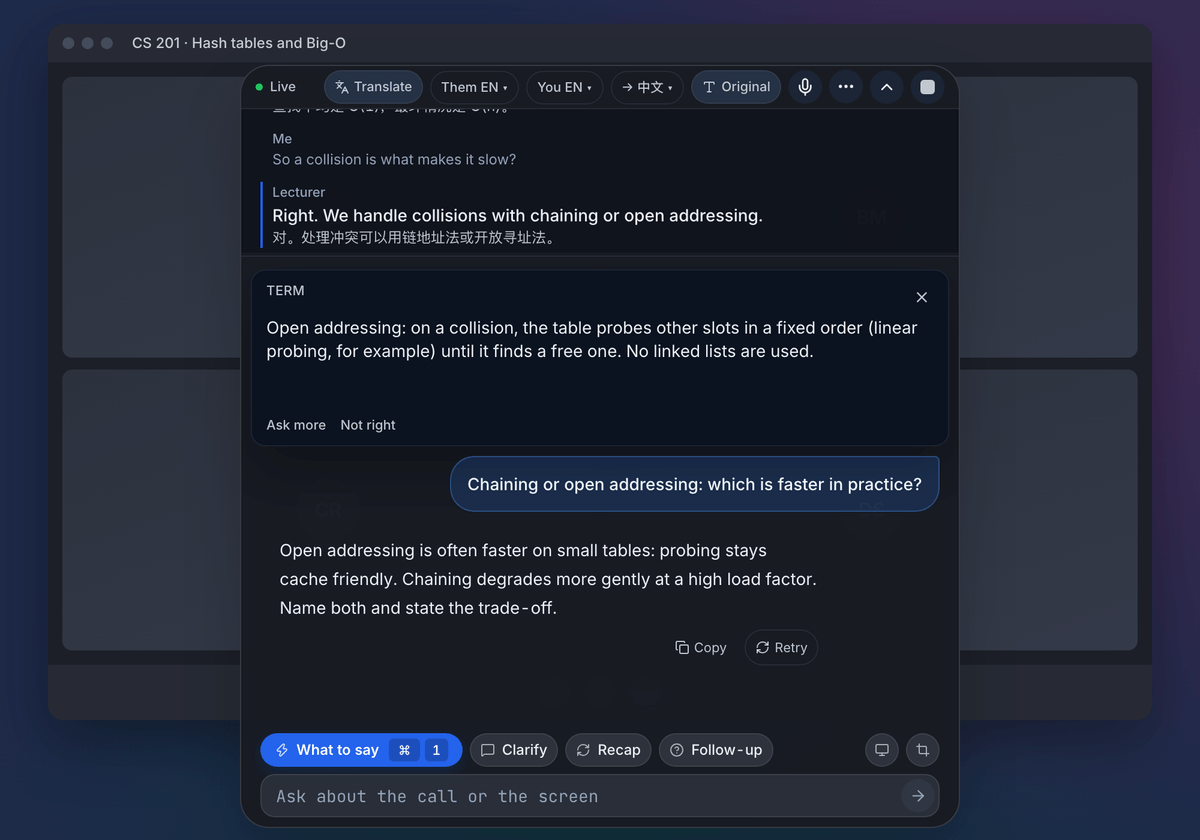
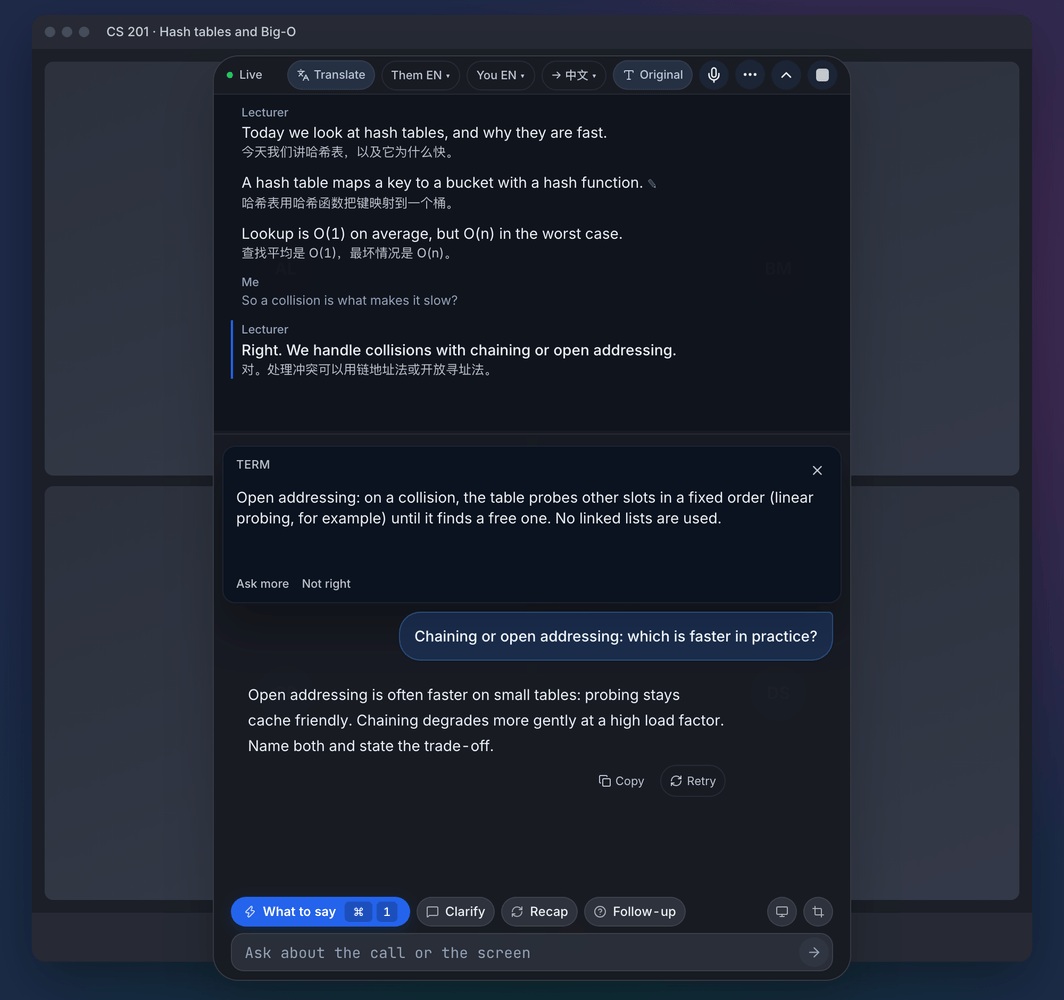
fix(docs): fit the whole scene in each product image

diff --git a/demo/shots/shots.css b/demo/shots/shots.css
@@ -1,6 +1,6 @@
 /* Backdrop for the product shots: a generic video-call window on a blurred desktop. Neutral shapes and
-   initials only; no real app, brand or person. The page is 1000x700; the real overlay sits on top. */
-html, body, #root { margin: 0; width: 1000px; height: 700px; overflow: hidden; }
+   initials only; no real app, brand or person. The page is 1000x940; the real overlay sits on top. */
+html, body, #root { margin: 0; width: 1000px; height: 940px; overflow: hidden; }
 html[data-theme="dark"] { --desk-a: #1e2a4a; --desk-b: #4a2b57; --desk-c: #12353f; --win: #1c1f27; --win-bar: #262a34; --tile: #2c313d; --tile-b: #343a48; --ink: #c7ccd8; --av: #596176; }
 html[data-theme="light"] { --desk-a: #9ec3ee; --desk-b: #e8b9d4; --desk-c: #a9e0d0; --win: #f3f4f7; --win-bar: #e4e7ee; --tile: #dde1ea; --tile-b: #cfd5e1; --ink: #4b5366; --av: #9aa4ba; }
 body { background: transparent; }
@@ -15,7 +15,7 @@ body { background: transparent; }
 }
 
 .shot-call {
-  position: absolute; left: 40px; top: 20px; width: 920px; height: 580px;
+  position: absolute; left: 30px; top: 14px; width: 940px; height: 890px;
   border-radius: 12px; background: var(--win); box-shadow: 0 18px 50px rgba(0, 0, 0, .35); overflow: hidden;
   display: flex; flex-direction: column;
 }
@@ -30,5 +30,5 @@ body { background: transparent; }
 .shot-call-controls .shot-end { background: #d0524a; opacity: .9; }
 
 /* The overlay is the app's own component; it fills its window (h-screen), so here it fills this box. */
-.shot-overlay { position: absolute; left: 200px; top: 54px; width: 600px; height: 636px; }
+.shot-overlay { position: absolute; left: 200px; top: 52px; width: 600px; height: 870px; }
 .shot-overlay .h-screen { height: 100%; }

diff --git a/demo/shots/fixture.ts b/demo/shots/fixture.ts
@@ -100,8 +100,9 @@ export const clientScene: Scene = {
     ...them(
       1,
       'Client',
-      "Bonjour, merci pour votre temps. Nous voulons refondre l'application de réservation de nos salles de sport.",
-      '你好，谢谢你的时间。我们想重新设计健身房的预约应用。'
+      "Bonjour, merci pour votre temps. Nous voulons refondre l'application de nos salles de sport.",
+      '你好，谢谢你的时间。我们想重新设计健身房的应用。',
+      "Bonjour, merci pour votre temps. Nous voulons refonder l'application de nos salles de sport."
     ),
     ...them(2, 'Client', "Trop d'adhérents abandonnent la réservation au moment du paiement.", '太多会员在支付环节放弃了预约。'),
     ...them(3, 'Client', "Pourriez-vous nous présenter une première maquette d'ici le 15 mars ?", '你们能在3月15日前给我们看第一版设计稿吗？'),

diff --git a/demo/shots/main.tsx b/demo/shots/main.tsx
@@ -23,8 +23,8 @@ const scene = scenes[sceneId];
 
 document.documentElement.setAttribute('data-theme', theme);
 document.documentElement.setAttribute('data-platform', 'darwin');
-// The split between transcript and chat is the user's own setting: here it gives the chat room for the card and an answer.
-localStorage.setItem('pika_splitter_position', '20');
+// The split between transcript and chat is the user's own setting: here it gives the transcript the rows and the chat the card and an answer.
+localStorage.setItem('pika_splitter_position', '38');
 const { emit } = installElectronStub(scene);
 
 const wait = (ms: number) => new Promise((resolve) => setTimeout(resolve, ms));

diff --git a/docs/development.md b/docs/development.md
@@ -83,7 +83,7 @@ Regenerate all four (Node and Electron from `node_modules`, no pnpm; the script 
 ./node_modules/.bin/electron demo/shots/render.mjs
 ```
 
-The window is hidden; each page is captured at 2x, scaled to 1200x840 and reduced to a palette PNG (under 350 KB). Look at the four files after a run. The old Remotion demo in `demo/src` is not used for this.
+The window is hidden; each page is captured at 2x, scaled to 1064x1000 and reduced to a palette PNG (under 350 KB). Look at the four files after a run. The old Remotion demo in `demo/src` is not used for this.
 
 ## Finishing a change
 
